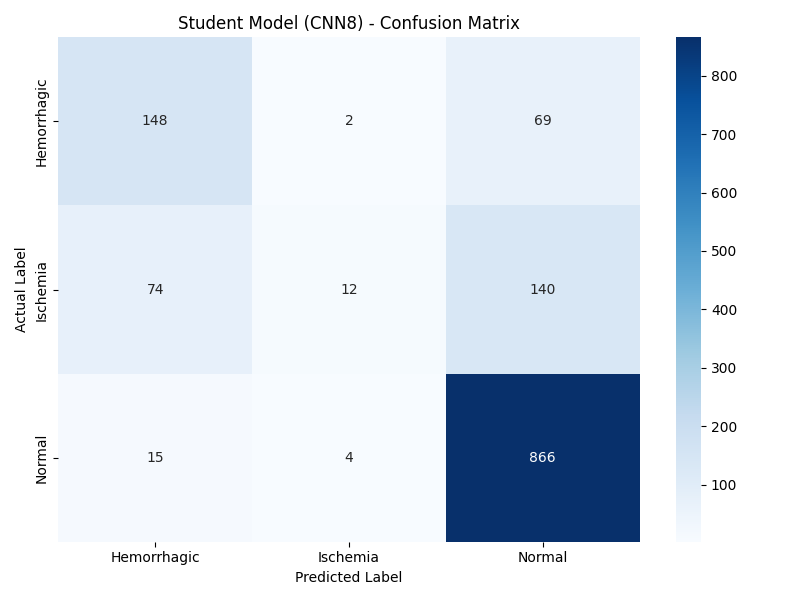
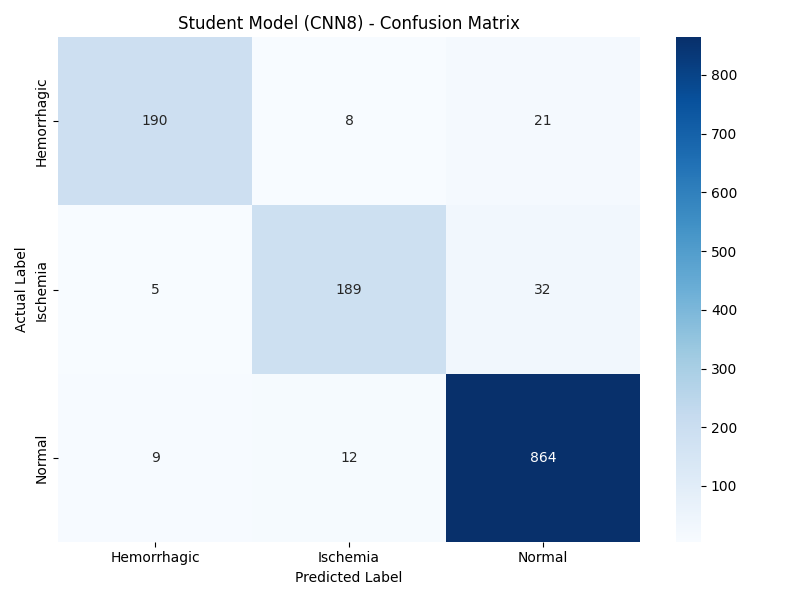
兩教師加TA教學生 teacher ta_distillation_result

diff --git a/中風分類/program/Experiment_Knowledge Distillation TA Student Model/兩教師加TA教學生.py b/中風分類/program/Experiment_Knowledge Distillation TA Student Model/兩教師加TA教學生.py
@@ -295,7 +295,7 @@ ALPHA       = 0.7
 W_TEACHER1  = 1 / 3
 W_TEACHER2  = 1 / 3
 W_TA        = 1 / 3
-NUM_EPOCHS  = 10  # 建議 50+，示範可改 10
+NUM_EPOCHS  = 50  # 建議 50+，示範可改 10
 
 trainer = MultiSourceDistillationTrainer(
     student=student_model,
